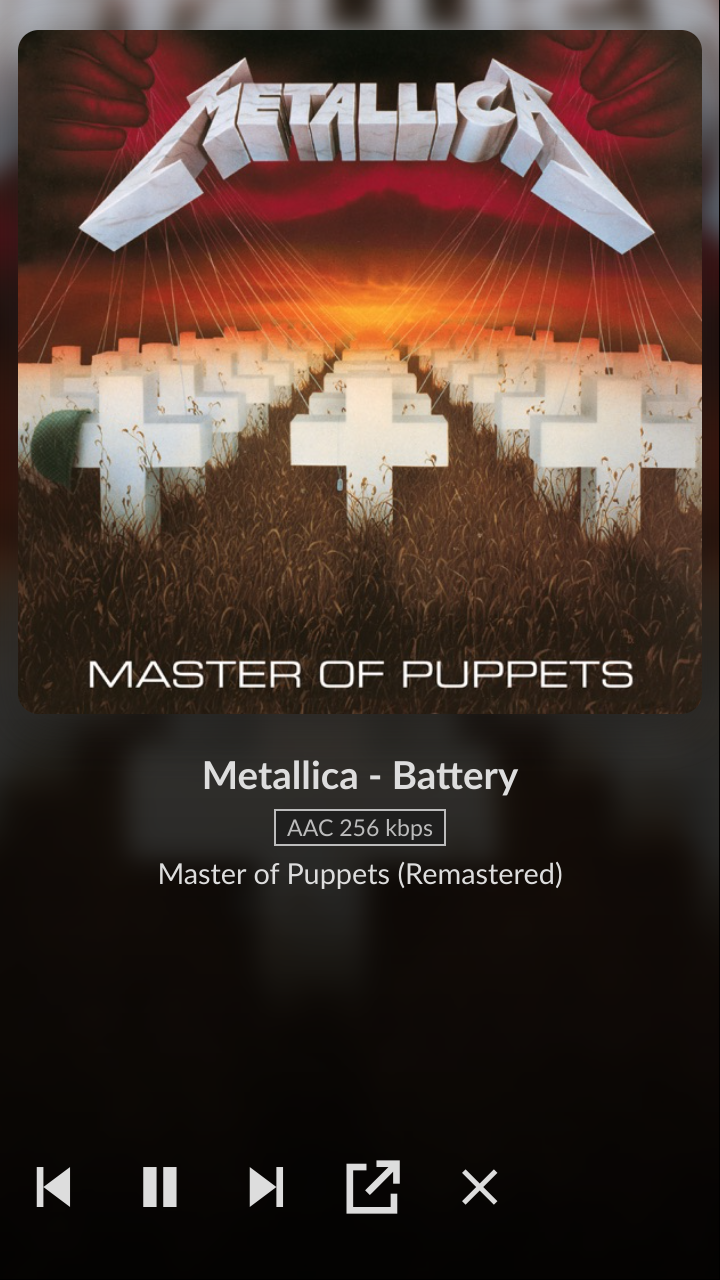
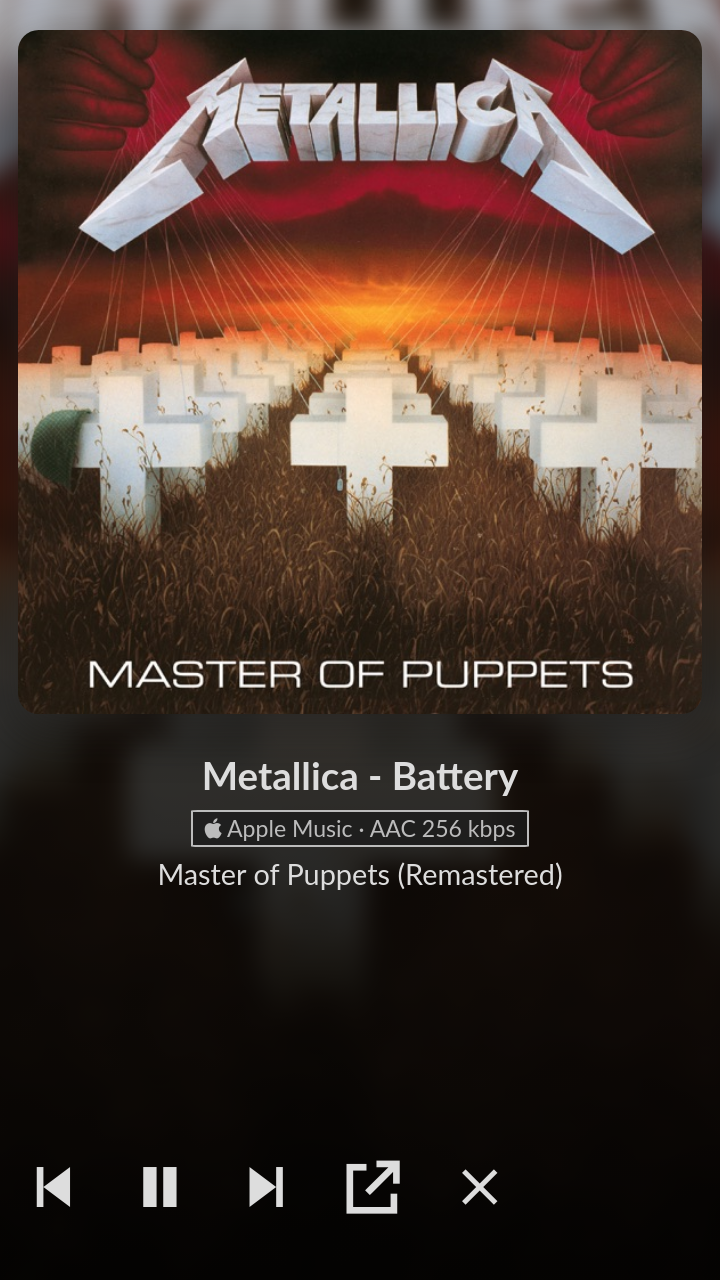
AppleMusic: Apple's player on the Pi, renderer screen elsewhere, English option
- The Pi's own display shows Apple Music's player only; "‹ moOde" returns
  to the normal moOde interface. Phones and computers keep the renderer
  screen, now with an "Apple Music · AAC 256 kbps" badge.
- Recognise the Pi's display by localhost/kiosk, not by moOde's "CrOS"
  check, which also matches Chromebooks.
- Report player/Home view and add home/player actions, so a remote's
  Menu/Back switches between Apple Music's player and Home.
- New setting APPLEMUSIC_LANGUAGE (e.g. en-GB) for the interface language;
  the installer adds new settings to existing configuration files.

Changed region(s): [[0.2444, 0.5938, 0.7639, 0.6875]]

diff --git a/AppleMusic/extension/nowplaying.js b/AppleMusic/extension/nowplaying.js
@@ -18,12 +18,56 @@
         } catch (e) { return ''; }
     }
 
+    // Where Apple Music is: full-screen player open, on the Home page.
+    // A remote's Menu/Back switches between the player and Home, like
+    // moOde's Playback and Library views.
+    function isHome() { return /\/home\/?$/.test(location.pathname); }
+    function view() {
+        return { player: !!document.querySelector('.sliding-modal.is-open'), home: isHome() };
+    }
+
+    function goHome() {
+        if (isHome()) { return; }
+        var links = document.querySelectorAll('.navigation a');
+        for (var i = links.length - 1; i >= 0; i--) {
+            if (/\/home\/?$/.test(links[i].getAttribute('href') || '')) { links[i].click(); return; }
+        }
+        // Keep the store and the ?l= interface language.
+        var lang = new URLSearchParams(location.search).get('l');
+        location.href = location.origin + location.pathname.replace(/^(\/[a-z]{2})\/.*$/, '$1/home') +
+            (lang ? '?l=' + encodeURIComponent(lang) : '');
+    }
+
+    // "home": close the player and show Home. "player": open the player
+    // (only when something is queued; otherwise show Home).
+    function showHome() {
+        var close = document.querySelector('.sliding-modal.is-open .sliding-modal-collapse');
+        if (close) {
+            close.click();
+            setTimeout(function () {
+                goHome();
+                // Closing returns focus to the mini player, which then shows
+                // a focus ring as if it were selected.
+                if (document.activeElement && document.activeElement.blur) { document.activeElement.blur(); }
+            }, 400);
+        } else {
+            goHome();
+        }
+    }
+
+    function showPlayer() {
+        var mk = musicKit();
+        var open = document.querySelector('.mini-player__metadata-button');
+        if (mk && mk.nowPlayingItem && open) { open.click(); } else { goHome(); }
+    }
+
     function state() {
         var mk = musicKit();
-        if (!mk) { return { ready: false, playing: false, item: null }; }
+        if (!mk) { return { ready: false, playing: false, item: null, view: view() }; }
         var it = mk.nowPlayingItem;
         return {
             ready: true,
+            view: view(),
             playing: !!mk.isPlaying,
             item: it ? {
                 id: it.id || '',
@@ -57,6 +101,8 @@
     window.addEventListener('message', function (ev) {
         var d = ev.data;
         if (ev.source !== window || !d || d.source !== 'moode-am-ext' || d.type !== 'command') { return; }
+        if (d.action === 'home') { showHome(); setTimeout(send, 900); return; }
+        if (d.action === 'player') { showPlayer(); setTimeout(send, 900); return; }
         var mk = musicKit();
         if (!mk) { return; }
         var p = null;

diff --git a/AppleMusic/web/applemusic.js b/AppleMusic/web/applemusic.js
@@ -26,9 +26,14 @@
         el._t = setTimeout(function () { el.style.opacity = '0'; }, 2500);
     }
 
+    // The Pi's own display: moOde's kiosk browser opens http://localhost/.
+    // (moOde's GLOBAL.chromium also matches any "CrOS" browser, such as a
+    // Chromebook or the Raspberry Pi's Chromium on another Pi.)
     function isLocalDisplay() {
-        return (typeof GLOBAL === 'object' && GLOBAL && GLOBAL.chromium) ||
-            /[?&]kiosk=1\b/.test(location.search);
+        var kiosk = false;
+        try { kiosk = localStorage.getItem('kiosk') === '1'; } catch (e) { /* no storage */ }
+        return kiosk || /[?&]kiosk=1\b/.test(location.search) ||
+            ['localhost', '127.0.0.1', '::1', '[::1]'].indexOf(location.hostname) !== -1;
     }
 
     function openAppleMusic(ev) {
@@ -70,7 +75,9 @@
     // While Apple Music runs, moOde shows it like AirPlay or Spotify Connect:
     // moOde's own renderer screen (#inpsrc-indicator) with cover, title and
     // the output format, plus play/pause/next/previous, "show on the Pi
-    // screen" and "close" buttons. This works on every moOde client.
+    // screen" and "close" buttons. Phones and computers only: the Pi's own
+    // display has Apple Music's player itself, and "‹ moOde" there returns to
+    // the normal moOde interface.
     var POLL_MS = 2000;
     var OTHER_RENDERERS = ['btactive', 'aplactive', 'spotactive', 'qbzactive', 'slactive', 'paactive', 'rbactive', 'inpactive'];
     var shown = false;
@@ -127,7 +134,9 @@
             artist: esc(item.artist),
             album: esc(item.album),
             cover_url: item.artwork || (typeof DEFAULT_ALBUM_COVER === 'string' ? DEFAULT_ALBUM_COVER : ''),
-            sformat: 'AAC 256 kbps',
+            // moOde clears its "… Active" text once metadata is shown; the
+            // format badge under the title says which source plays.
+            sformat: '<i class="fa-brands fa-apple"></i> Apple Music &middot; AAC 256 kbps',
             oformat: st.oformat || (st.playing ? '' : 'Not playing'),
             duration: Math.round(item.duration || 0),
             playstate: st.playing ? 'Resume' : 'Pause'
@@ -187,9 +196,11 @@
     }, true);
 
     function init() {
-        setInterval(poll, POLL_MS);
-        setTimeout(poll, 500);
-        document.addEventListener('visibilitychange', poll);
+        if (!isLocalDisplay()) {
+            setInterval(poll, POLL_MS);
+            setTimeout(poll, 500);
+            document.addEventListener('visibilitychange', poll);
+        }
         if (addButton()) { return; }
         var tries = 0;
         var timer = setInterval(function () {

diff --git a/AppleMusic/web/applemusic.php b/AppleMusic/web/applemusic.php
@@ -6,7 +6,9 @@
  * GET  applemusic.php?cmd=volume              CamillaDSP volume for the Apple Music slider
  * POST applemusic.php?cmd=volume&level=0..100 set CamillaDSP volume directly
  * GET  applemusic.php?cmd=state               now playing, for the moOde UI
- * POST applemusic.php?cmd=control&action=play|pause|toggle|next|prev
+ * POST applemusic.php?cmd=control&action=play|pause|toggle|next|prev|home|player
+ *                                             (home: close the player and show Home;
+ *                                              player: open the full-screen player)
  * POST applemusic.php?cmd=sync                from the Apple Music extension (JSON body):
  *                                             stores now playing, returns commands + volume
  */
@@ -298,7 +300,9 @@ if ($cmd === 'sync') {
     $in = is_array($in) ? $in : [];
     $prev = read_state();
     $playing = !empty($in['playing']);
-    $state = ['time' => microtime(true), 'ready' => !empty($in['ready']), 'playing' => $playing, 'item' => clean_item($in['item'] ?? null)];
+    $state = ['time' => microtime(true), 'ready' => !empty($in['ready']), 'playing' => $playing, 'item' => clean_item($in['item'] ?? null),
+        // Full-screen player open / on the Home page (remote Menu/Back).
+        'view' => ['player' => !empty($in['view']['player']), 'home' => !empty($in['view']['home'])]];
     $commands = take_commands();
     // Apple Music and MPD share the output device: whoever starts last wins.
     $mpd = mpd_command('status');
@@ -362,7 +366,7 @@ if ($cmd === 'sync') {
 if ($cmd === 'control') {
     if (!$post) { http_response_code(405); echo json_encode(['error' => 'use POST']); exit; }
     $action = $_GET['action'] ?? '';
-    if (!in_array($action, ['play', 'pause', 'toggle', 'next', 'prev'], true)) {
+    if (!in_array($action, ['play', 'pause', 'toggle', 'next', 'prev', 'home', 'player'], true)) {
         http_response_code(400);
         echo json_encode(['error' => 'unknown action']);
         exit;

diff --git a/AppleMusic/patch_header.py b/AppleMusic/patch_header.py
@@ -9,7 +9,7 @@ from pathlib import Path
 
 BEGIN = "<!-- BEGIN APPLE MUSIC -->"
 END = "<!-- END APPLE MUSIC -->"
-ASSET_VERSION = 3
+ASSET_VERSION = 5
 BODY = [f'<script src="js/applemusic.js?v={ASSET_VERSION}" defer></script>']
 ANCHOR = re.compile(r'^\s*<script src="js/(?:main\.min|scripts-panels)\.js(?:\?[^"]*)?" defer></script>\s*$')
 BLOCK = re.compile(r"^[ \t]*" + re.escape(BEGIN) + r".*?" + re.escape(END) + r"[ \t]*\r?\n?", re.S | re.M)

diff --git a/AppleMusic/readme.md b/AppleMusic/readme.md
@@ -3,15 +3,15 @@
 This project adds **Apple Music** to moOde's Library view menu, next to Radio,
 Folder, Tag, Album and Playlist. Choosing it opens Apple Music Web full screen
 on the Raspberry Pi's local display. A small **‹ moOde** button in Apple Music
-returns to the moOde interface while the music keeps playing; moOde then shows
-Apple Music on its renderer screen, like AirPlay or Spotify Connect, with
-cover, title and play/pause/next/previous buttons.
+returns to the moOde interface while the music keeps playing. Phones and
+computers show Apple Music on moOde's renderer screen, like AirPlay or Spotify
+Connect, with cover, title and play/pause/next/previous buttons.
 
 <p>
   <img width="350" alt="moOde Library menu with the Apple Music entry" src="assets/moode-library-menu.png" />
   <img width="350" alt="moOde renderer screen showing Apple Music" src="assets/moode-renderer-applemusic.png" />
 </p>
-<sub>Left: <b>Apple Music</b> in moOde's Library view menu. Right: moOde's renderer screen while Apple Music plays in the background, with previous, play/pause, next, show Apple Music and close buttons.</sub><br><br>
+<sub>Left: <b>Apple Music</b> in moOde's Library view menu. Right: moOde's renderer screen on a phone while Apple Music plays on the Pi, with previous, play/pause, next, show Apple Music and close buttons.</sub><br><br>
 
 Audio from Apple Music is sent to moOde's `_audioout` ALSA device, so it follows
 the same output chain as MPD: with CamillaDSP enabled the sound passes through
@@ -75,9 +75,11 @@ in from your computer through Chromium's remote inspector:
   on the local display (or shows it again at once when it is already
   running). Selecting it from a phone or computer browser opens Apple Music on
   the Pi's screen as well.
-- **‹ moOde** (top right in Apple Music): back to moOde. Apple Music keeps
-  running and playing in the background. The button is hidden while the
-  full-screen player is open, where Apple Music has its own buttons.
+- **‹ moOde** (top right in Apple Music): back to the normal moOde
+  interface. Apple Music keeps running and playing in the background; choose
+  Library menu → **Apple Music** to return to it at once. The button is
+  hidden while the full-screen player is open, where Apple Music has its own
+  buttons.
 - **Swipe down** on the full-screen player closes it, as in the phone app
   (Apple Music Web only offers this gesture on phones).
 - Command line: `sudo moode-applemusic open | hide | show | close | toggle | status`.
@@ -90,10 +92,12 @@ in from your computer through Chromium's remote inspector:
 
 ### Apple Music in moOde
 
-While Apple Music runs, every moOde client (the Pi's screen, phones,
-computers) shows it on moOde's renderer screen, the same screen moOde uses for
-AirPlay and Spotify Connect: cover, artist, title, album, *AAC 256 kbps* and
-the output format. Its buttons:
+While Apple Music runs, moOde on phones and computers shows it on moOde's
+renderer screen, the same screen moOde uses for AirPlay and Spotify Connect:
+cover, artist, title, album, an *Apple Music · AAC 256 kbps* badge and the
+output format. The Pi's own display does not: there Apple Music's own player
+is the player, and **‹ moOde** leads to the normal moOde interface. Buttons of
+the renderer screen:
 
 | Button | Action |
 |---|---|
@@ -141,7 +145,13 @@ With the [SiriRemote](../SiriRemote/readme.md) project installed:
   Music while it is the source: it is on screen, it is playing, or it has a
   song paused and MPD is not playing. Volume keeps controlling moOde's volume
   (CamillaDSP), which also moves Apple Music's slider.
-- **Menu/Back** switches between Apple Music and moOde's renderer screen.
+- **Menu/Back** in Apple Music switches between the full-screen player and
+  Apple Music's Home page, like moOde's Playback and Library views.
+- **Menu/Back twice** returns to moOde and opens its Library source chooser,
+  where Apple Music is one of the sources. Within moOde, Menu/Back works as
+  usual.
+- In moOde's Playback view, touchpad left/right stay Previous/Next for Apple
+  Music while it is the source; other moOde views navigate as usual.
 - The remote's on-screen feedback (volume, play/pause, next, battery,
   shutdown countdown) is shown on top of Apple Music too, centred on the
   cover of the full-screen player.
@@ -183,6 +193,7 @@ Without CamillaDSP the slider works as a normal browser volume.
 | `APPLEMUSIC_FREEZE_MOODE` | `no` | pause moOde's own browser while Apple Music is open (no measurable gain in tests) |
 | `APPLEMUSIC_EXTRA_FLAGS` | empty | extra Chromium flags |
 | `APPLEMUSIC_COLOR_SCHEME` | `auto` | `auto` = light/dark like the moOde theme, or `dark` / `light` |
+| `APPLEMUSIC_LANGUAGE` | empty | interface language, e.g. `en-GB`; the store (catalogue, subscription) stays the one in `APPLEMUSIC_URL`. Empty = the store's own language |
 
 ## Performance on the Pi
 
@@ -234,8 +245,8 @@ Chromium keeps running a cached version of the extension's service worker.
 - Apple Music Web streams AAC 256 kbps; lossless is not available in the web
   player.
 - Apple Music uses an extra ~350–600 MB RAM while running, also in the
-  background. Close it with ✕ on moOde's renderer screen when you no longer
-  need it.
+  background. Close it with ✕ on moOde's renderer screen (phone or
+  computer) or `sudo moode-applemusic close` when you no longer need it.
 - Search and browsing happen in Apple Music itself, on the Pi's screen; moOde
   only shows and controls what plays.
 
